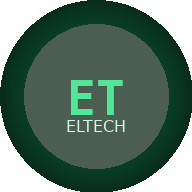
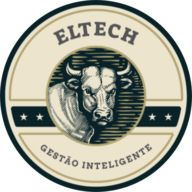
Atualiza imagens (fundo e icones) e versao 3.5.1

diff --git a/sw.js b/sw.js
@@ -9,7 +9,7 @@
    aviso "Nova versão disponível" para quem já tem o app aberto.
    (Mantenha igual em app.js -> APP_VERSION e em version.json)
    ============================================================ */
-const VERSION = '3.5.0';
+const VERSION = '3.5.1';
 const CACHE = 'eltech-v' + VERSION;
 
 // Caminhos RELATIVOS (./) para funcionar no GitHub Pages em qualquer subpasta.

diff --git a/assets/js/app.js b/assets/js/app.js
@@ -290,7 +290,7 @@ function renderFarmPanel(){
 
 // ========== PWA / AUTO-UPDATE ==========
 // Versão do app (sincronize com sw.js e version.json ao publicar)
-const APP_VERSION = '3.5.0';
+const APP_VERSION = '3.5.1';
 
 // Mostra um banner "Atualização disponível" quando o service worker detecta uma nova versão.
 function showUpdateBanner(worker){
